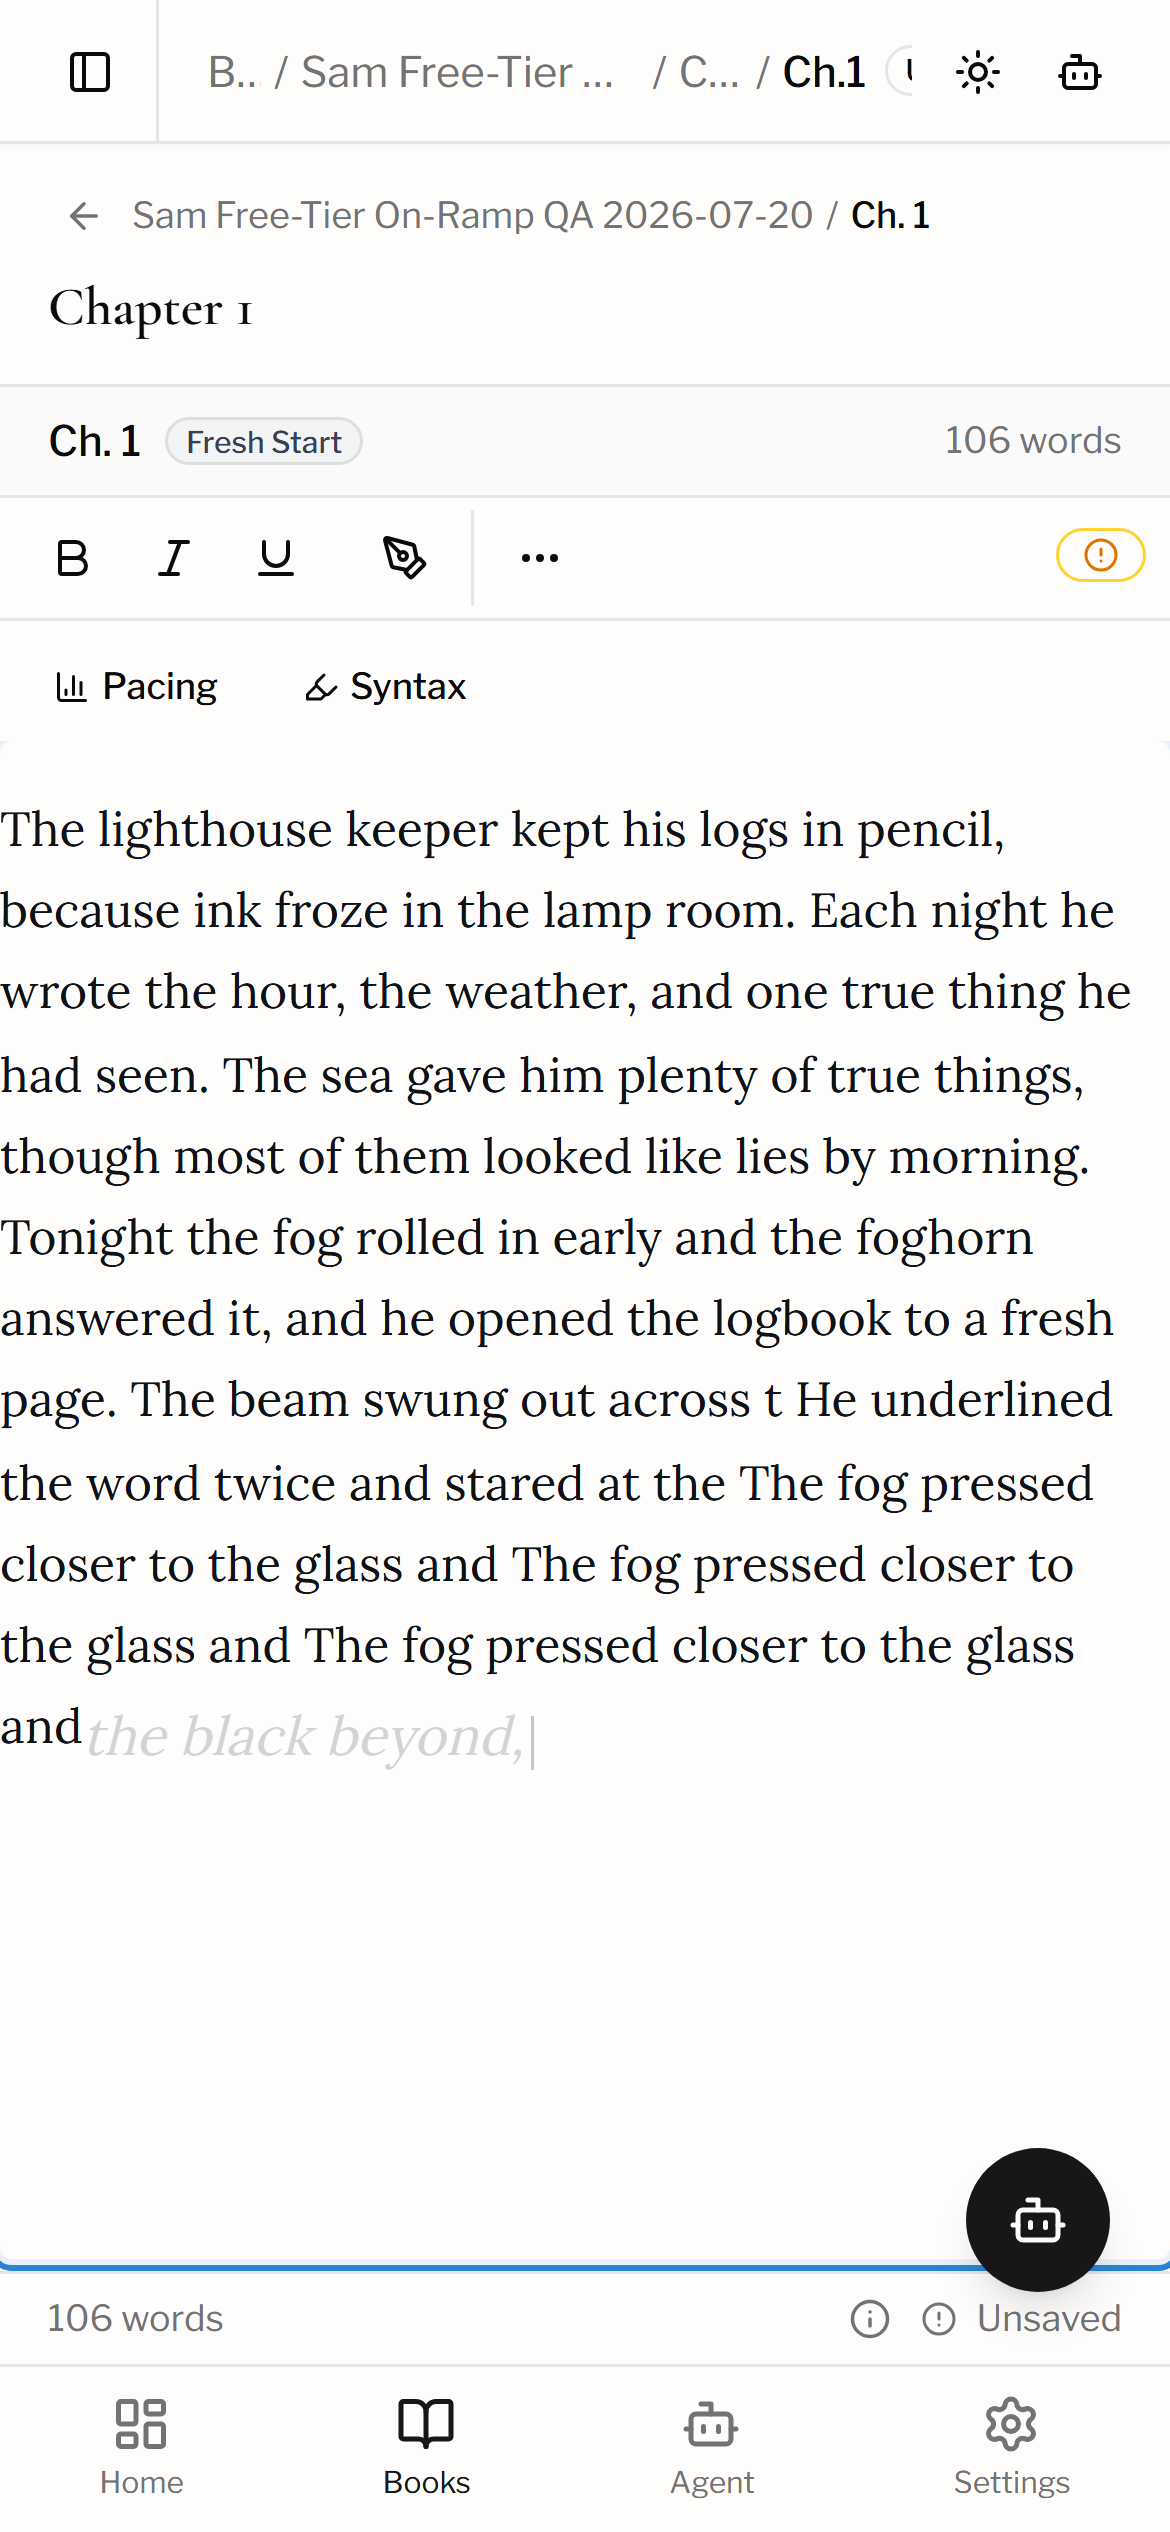
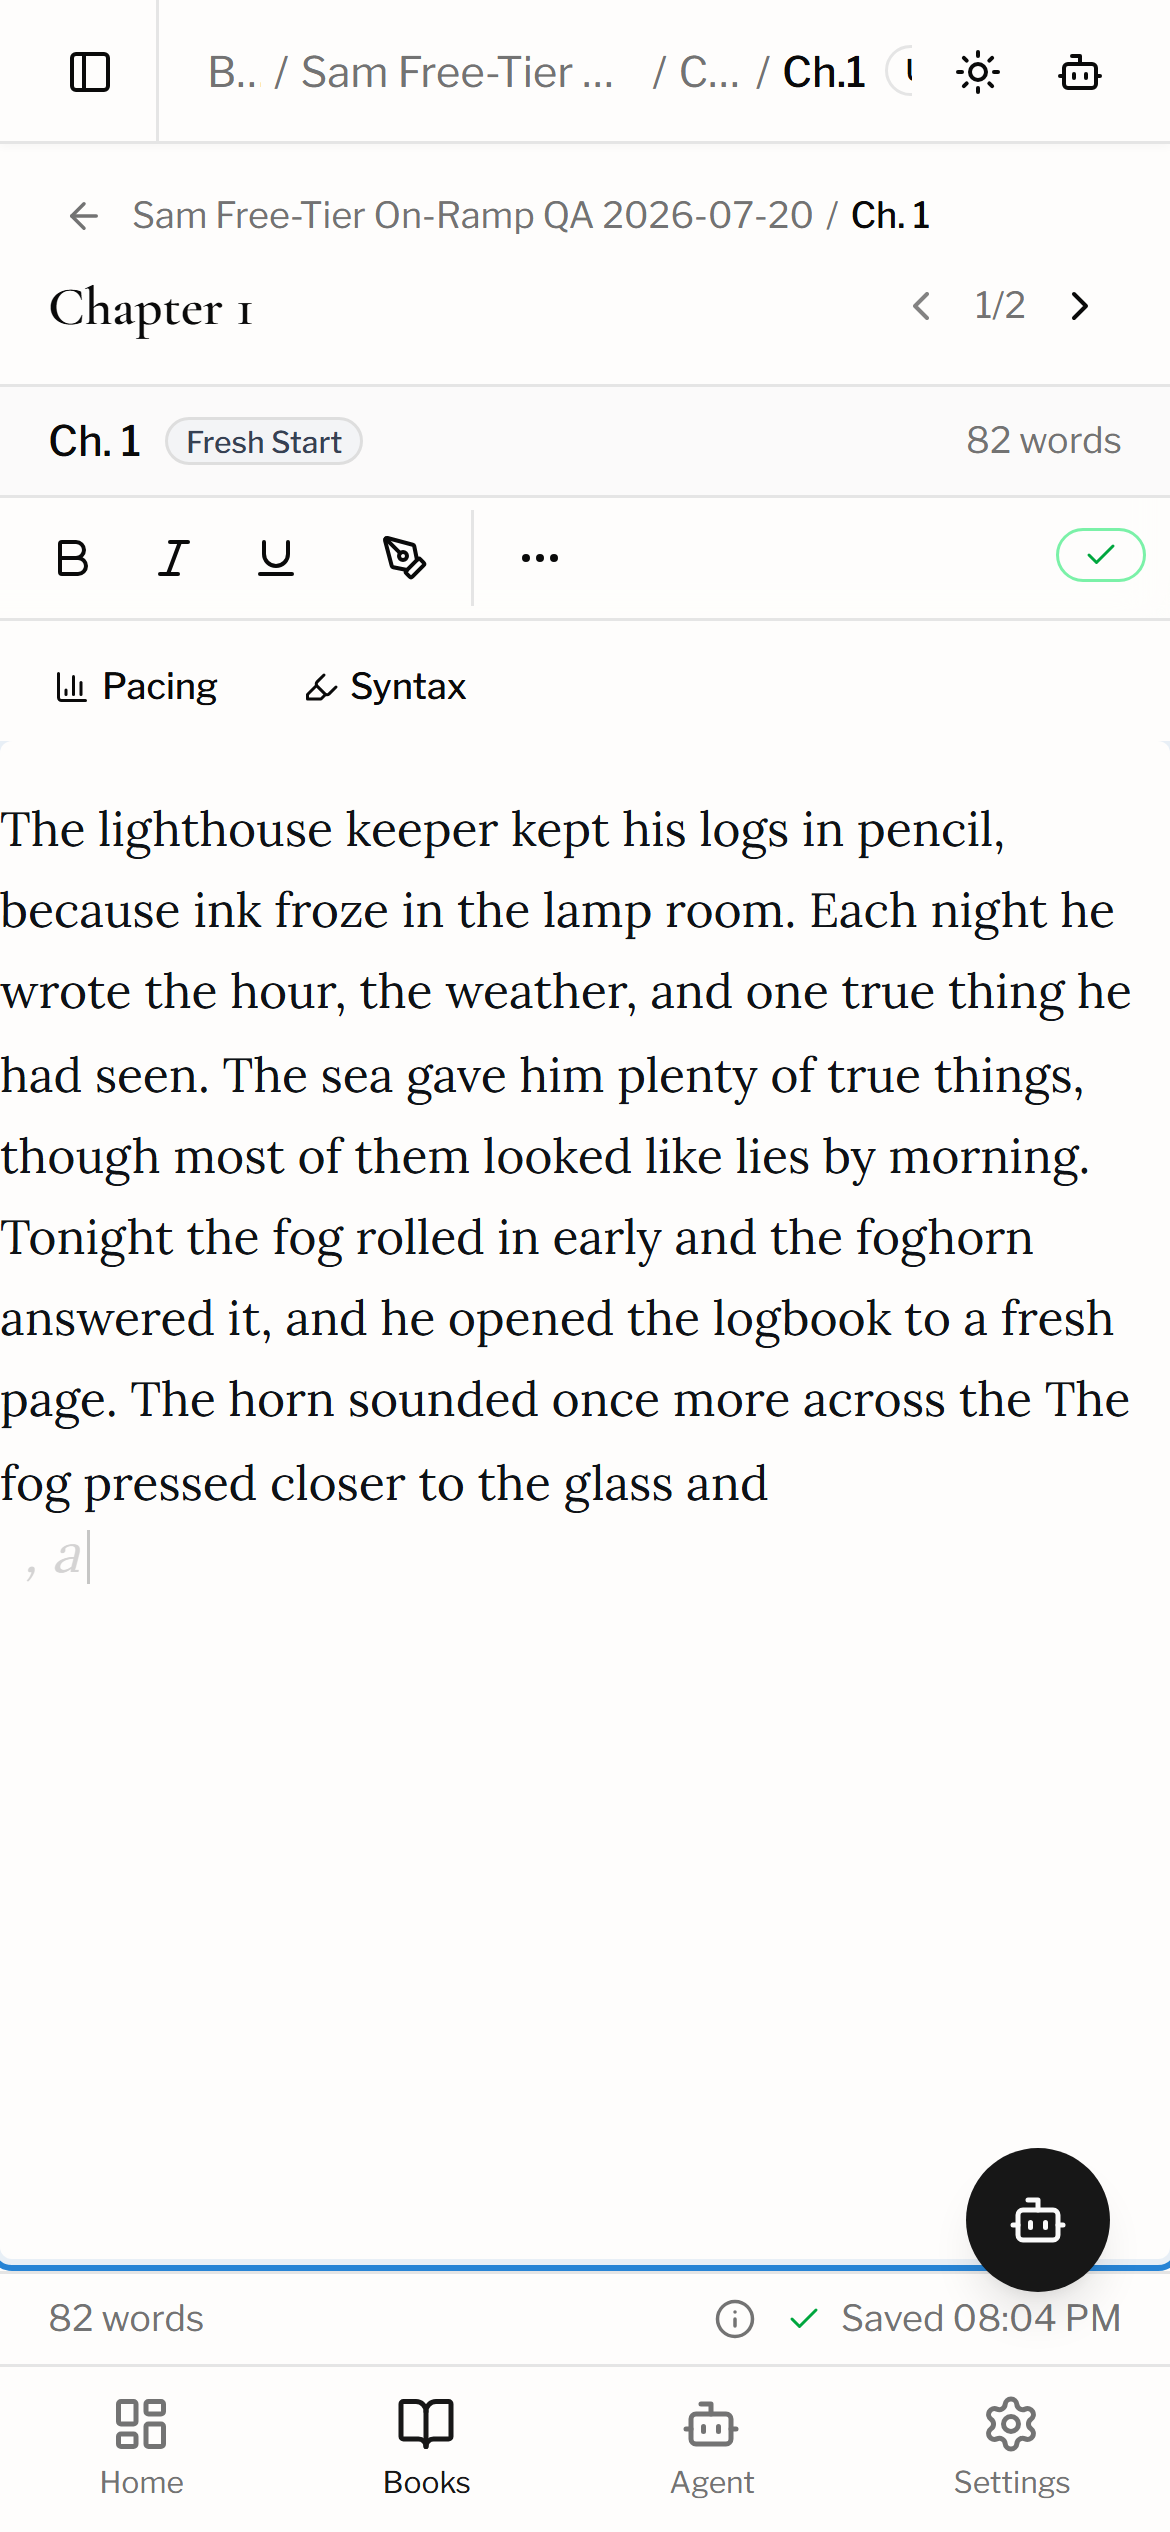
docs(qa): D-143 dead-zone re-measure on e27cf55 — pill arms 261ms after last token (was ~4.4s), shots 31a-c superseded in place, ttft 1.57s warm

diff --git a/cowork/bulletproof-qa-2026-07-17/evidence/p5-wave-c/CAPTURE-2026-07-25.md b/cowork/bulletproof-qa-2026-07-17/evidence/p5-wave-c/CAPTURE-2026-07-25.md
@@ -138,3 +138,6 @@ Staging disclosures: meter staged 13→100 for shots 35-at-wall/37 (SQL, restore
 |---|---|
 | `32b-phone-ghost-disclosure-inpixel.png` | v8 audit ding #1 remedied: ghost menu item scrolled into view — the D-127 disclosure line "Quick suggestions may use a faster model than your default." measured in-viewport (`disclosureInView:true`), no DOM-read assertion needed. |
 | `35b-phone-billing-usage-by-model-deepseek.png` | v8 audit ding #2 remedied: Usage-by-Model scrolled to the substitution row "DeepSeek V3.2 (OpenRouter) (deepseek/deepseek-v3.2)" measured in-viewport (top=386, `inView:true`) — the D-127 substitution visible in the writer's own meter, in pixels. |
+
+### v8 addendum — D-143/D-144/D-145 fix re-measure on `1de4ef0` (shots 31a-c SUPERSEDED in place)
+Instrumented re-run on the fixed build (old 31a-c from `72b6338` remain in git history): timeline t=3206ms len 1 → t=3483 len 67 → t=3744 len 95 **with pill ARMED at 3744ms — 261ms after the prior growth poll**. The D-143 ~4.4s settle-tail dead-zone is GONE on camera (settle now derives from message_stop; done frame precedes billing writes). `Server-Timing: ttft;dur=1567` warm. D-144 preview join-space + D-145 felt-latency chip land in the same commit (test-pinned: preview===insert byte-identical; chip shows client-felt fetch→armed).
